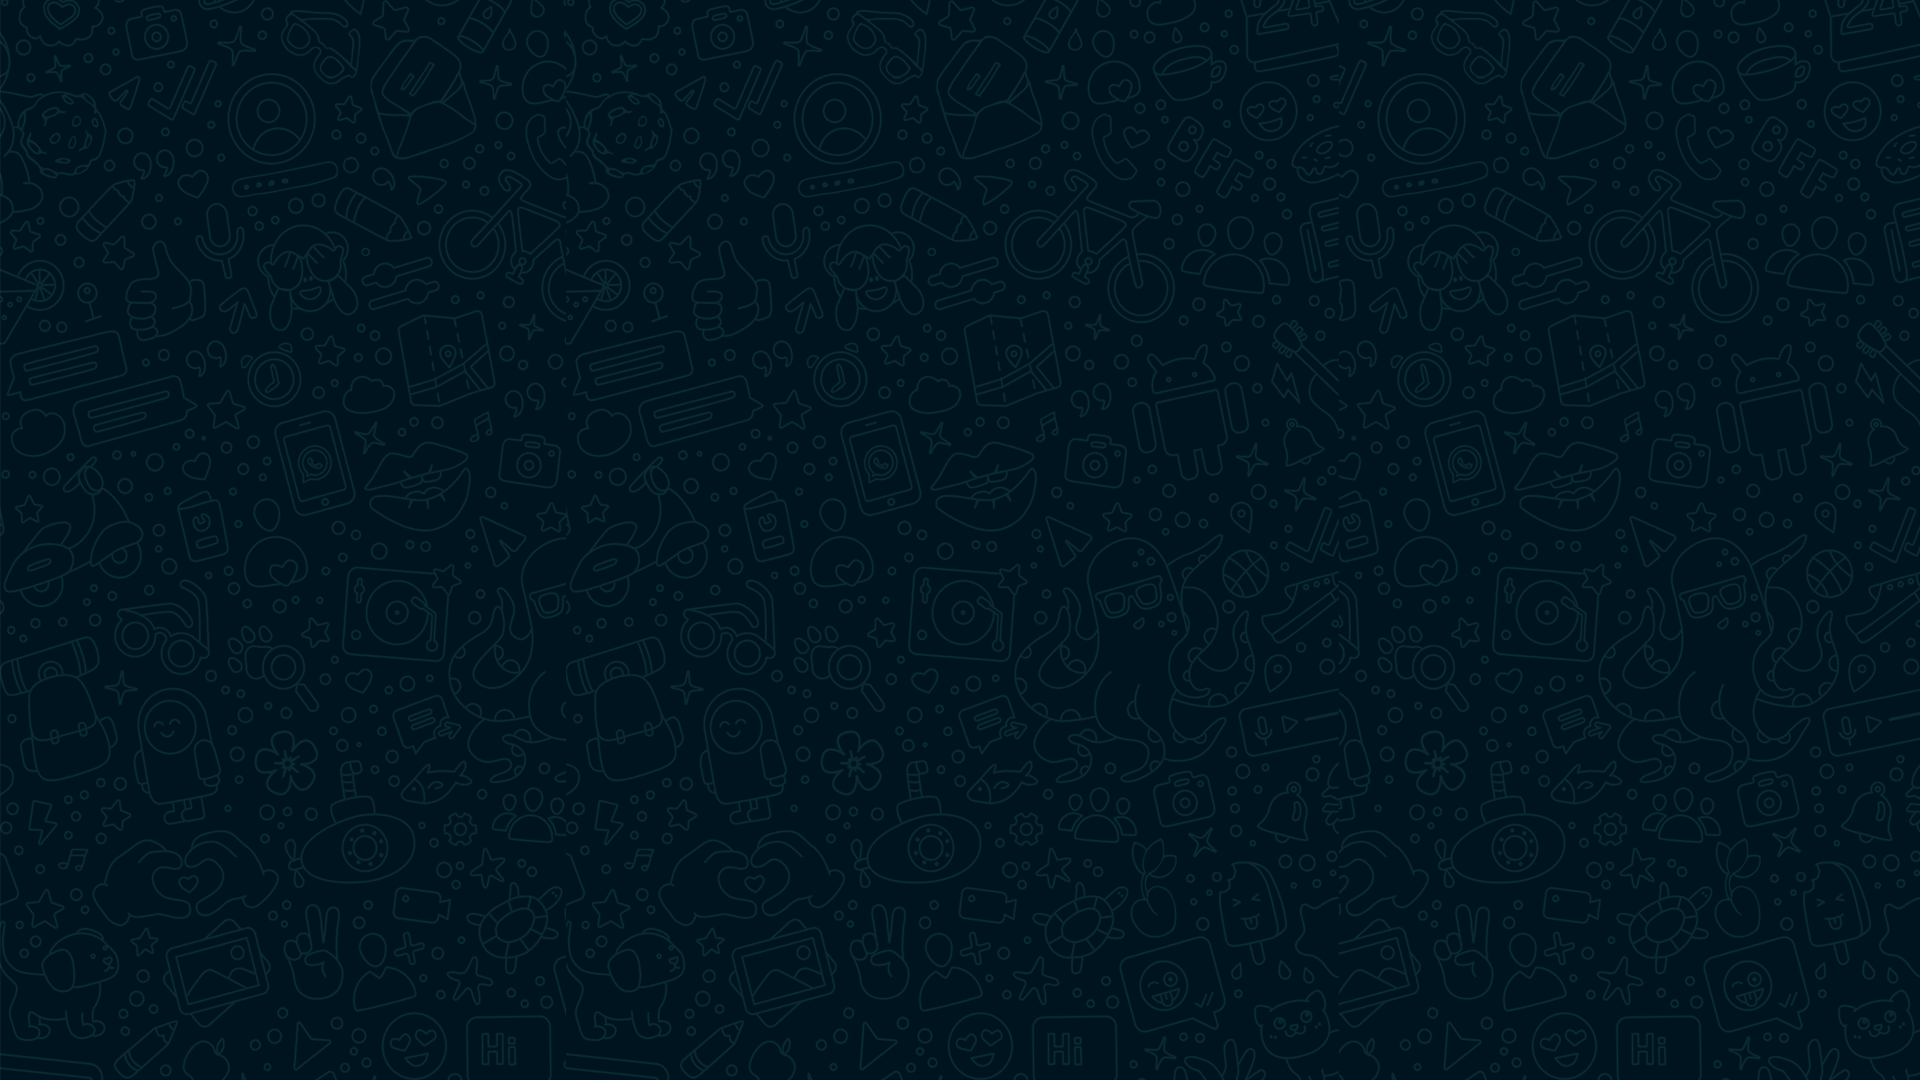
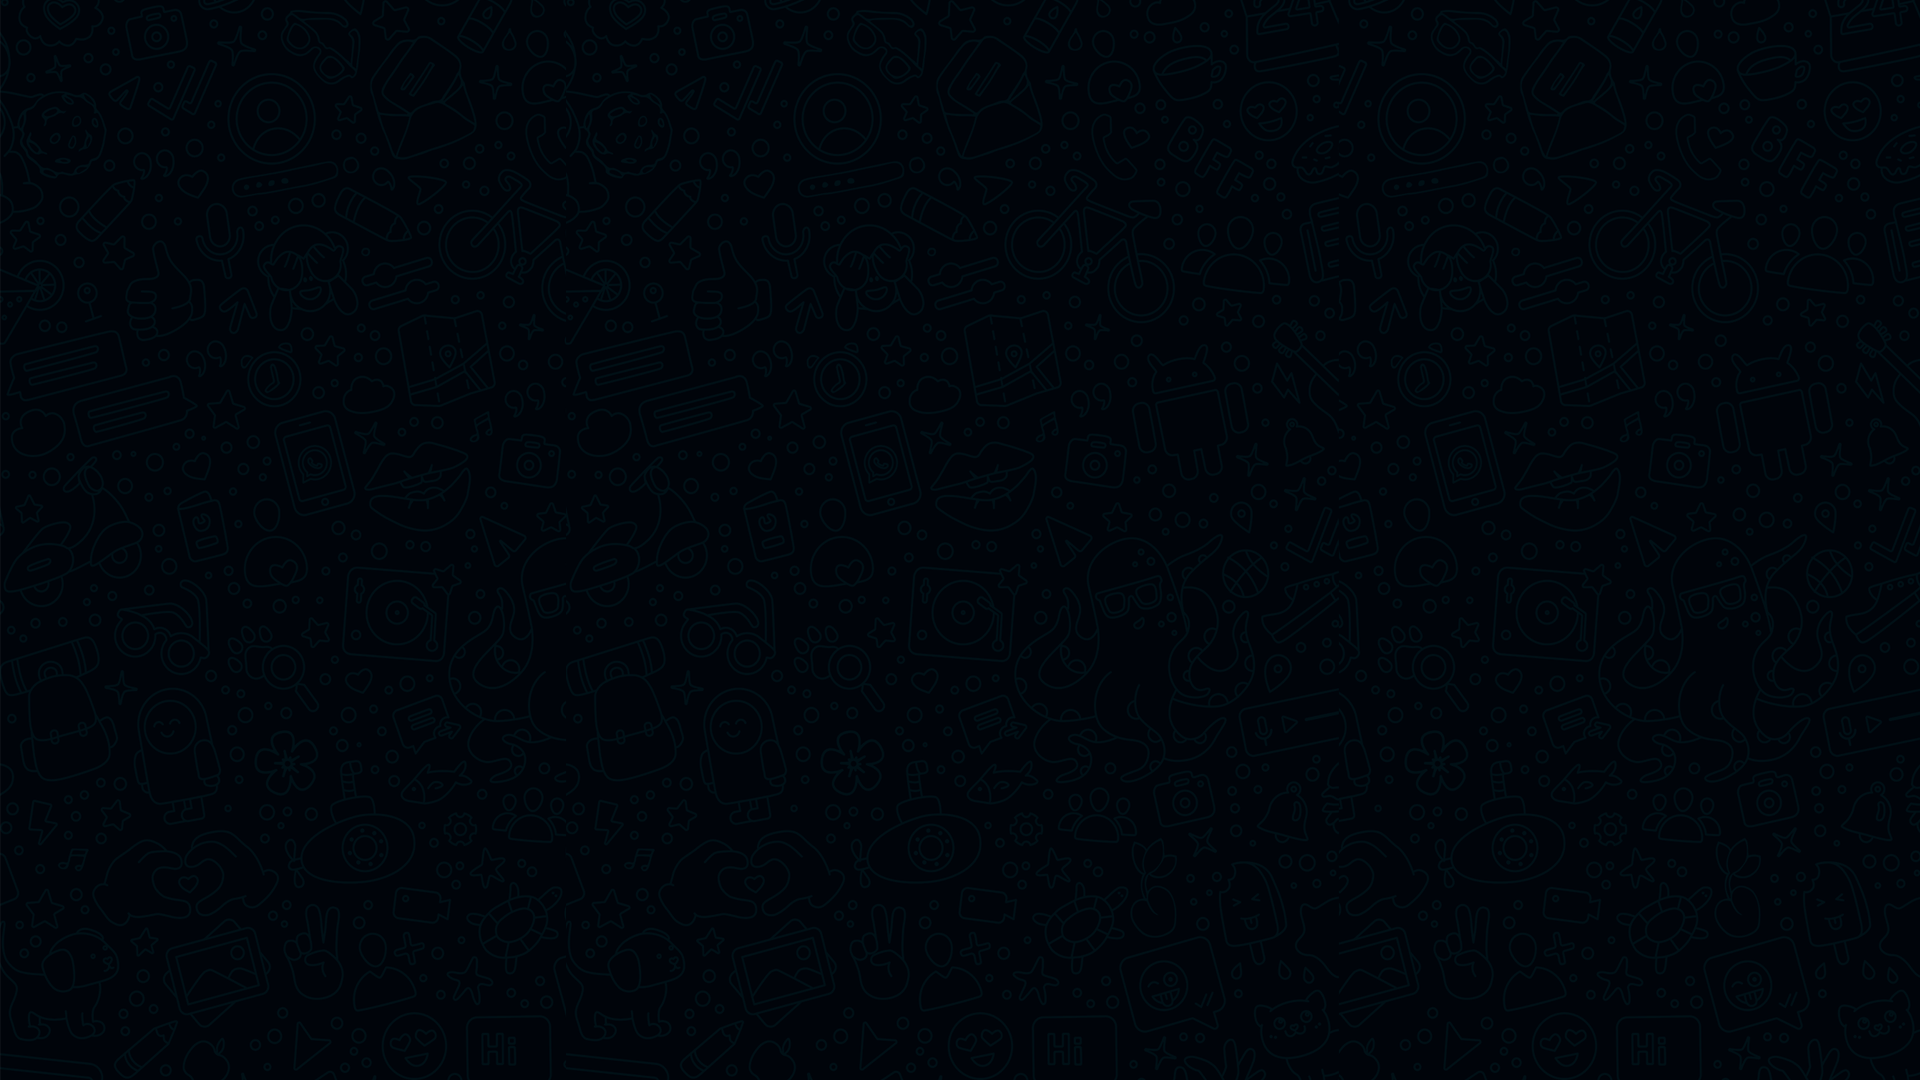
feat: added color for input message

diff --git a/src/shared/components/MainContainer/components/ChatMessagesZone.tsx b/src/shared/components/MainContainer/components/ChatMessagesZone.tsx
@@ -1,10 +1,11 @@
-import { Box, CardMedia, Icon, IconButton, Paper, Typography, useTheme } from '@mui/material';
-
+import { Box, CardMedia, Icon, IconButton, Input, Paper, Typography, useTheme } from '@mui/material';
+import { shade } from 'polished';
 import LightChatBackground from '../../../../assets/images/bg_light.png';
 import { useChatListContext } from '../../../contexts/ChatlistContext';
 import DarkChatBackground from '../../../../assets/images/bg_dark.png';
 import { MenuChatOptions } from './MenuChatOptions';
 import { AppTooltip } from '../../AppTootip';
+
 
 export const ChatMessagesZone = () => {
 	const theme = useTheme();
@@ -17,10 +18,9 @@ export const ChatMessagesZone = () => {
 			display='flex'
 			flexDirection='column'
 			height='100%'
-			borderBottom={'5px solid #00A884'}
 		>
 			<Box
-				className='chatMessagesZone--headerBar'
+				className='chatMessagesZone--headerZone'
 				height={theme.spacing(theme.palette.background.default === '#0A1014' ? 7.1 : 7)}
 				component={Paper}
 				elevation={0}
@@ -61,7 +61,7 @@ export const ChatMessagesZone = () => {
 				</Box>
 			</Box>
 			<Box
-				className='chatsArea'
+				className='chatMessagesZone--messagesZone'
 				flex='1'
 				position='relative'
 				sx={{
@@ -86,6 +86,46 @@ export const ChatMessagesZone = () => {
 						height: '100%',
 					}}
 				/>
+			</Box>
+			<Box
+				className='chatMessagesZone--footerInputZone'
+				display='flex'
+				alignItems='center'
+				justifyContent='center'
+				width='100%'
+				height={theme.spacing(7.7)}
+				component={Paper}
+				elevation={0}
+				borderRadius={theme.spacing(0)}
+				paddingY={theme.spacing(1.3)}
+				paddingX={theme.spacing(2)}
+			>
+				<Box width={theme.spacing(11.7)}>
+					Icons left
+				</Box>
+				<Box flex='1'>
+					<Box
+						flex='1'
+						display='flex'
+						alignItems='center'
+						justifyContent='start'
+						bgcolor={theme.palette.info.light}
+						height={theme.spacing(4)}
+						borderRadius={theme.spacing(1)}
+						paddingX={theme.spacing(1)}
+						paddingY={theme.spacing(1)}
+					>
+						<Input
+							size='small'
+							fullWidth
+							placeholder='Digite uma mensagem'
+							sx={{ fontSize: '.8rem' }}
+						/>
+					</Box>
+				</Box>
+				<Box width={theme.spacing(7)}>
+					Icons right
+				</Box>
 			</Box>
 		</Box >
 	);

diff --git a/src/shared/components/MainContainer/MainContainer.tsx b/src/shared/components/MainContainer/MainContainer.tsx
@@ -128,7 +128,6 @@ export const MainContainer = () => {
 						position='relative'
 						borderBottom={'5px solid #00A884'}
 						padding={theme.spacing(2)}
-						borderLeft={`1px solid ${theme.palette.divider}`}
 					>
 						<SvgLogo />
 						<Box display='flex' flexDirection='column' alignItems='center' justifyContent='center' gap={3}>
@@ -141,7 +140,7 @@ export const MainContainer = () => {
 							<hr style={{ width: '100%', borderColor: 'rgba(134,150,160,0.15)', marginTop: '.7rem' }} />
 							<Box display='flex' alignItems='center' gap={2}>
 								<Icon sx={{ fontSize: '1rem', }}>computer</Icon>
-								<Typography variant='caption' component='p' color='textSecondary'>
+								<Typography variant='caption' component='p' color='textSecondary' align='center'>
 									Faça chamadas da área de trabalho com o WhatsApp para Windows. <a href='https://www.whatsapp.com/download' target='blank' style={{ textDecoration: 'none', color: '#53bdeb', fontSize: 'inherit' }}>Clique aqui</a>
 								</Typography>
 							</Box>

diff --git a/src/shared/themes/LightTheme.ts b/src/shared/themes/LightTheme.ts
@@ -12,7 +12,8 @@ export const LightTheme =  createTheme({
 		},
 		divider: '#E0E0E0',
 		info: {
-			main: '#E0E0E0'
+			main: '#E0E0E0',
+			light: '#FFF',
 		},
 		common: {
 			black: '#DEDFDD',

diff --git a/src/shared/themes/DarkTheme.ts b/src/shared/themes/DarkTheme.ts
@@ -15,6 +15,7 @@ export const DarkTheme =  createTheme({
 		divider: 'rgba(233,237,239,0.12)',
 		info: {
 			main: '#202C33',
+			light: '#2A3942',
 		},
 		background: {
 			default: '#0A1014',
